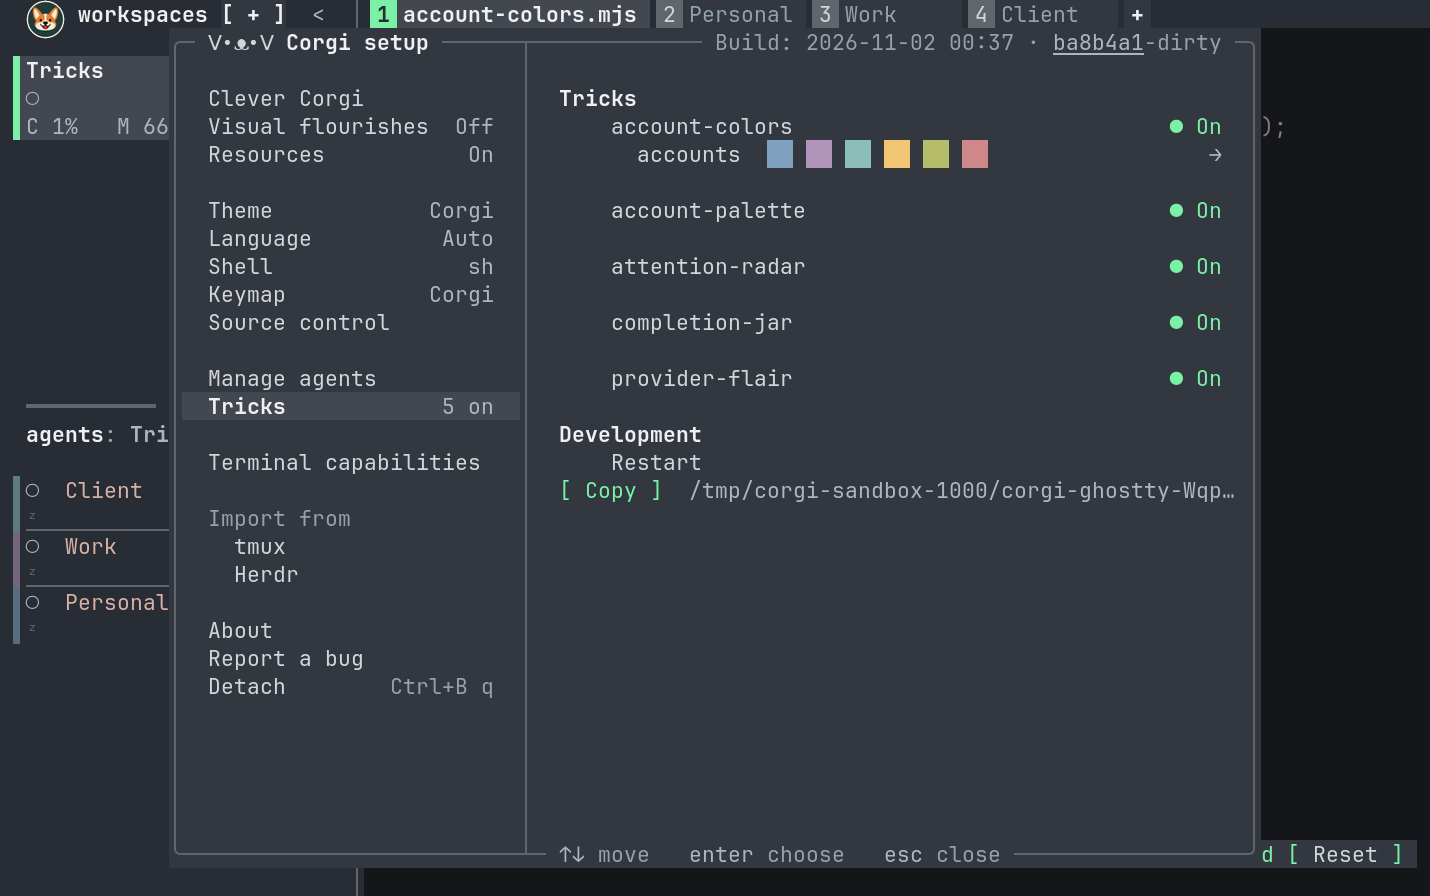
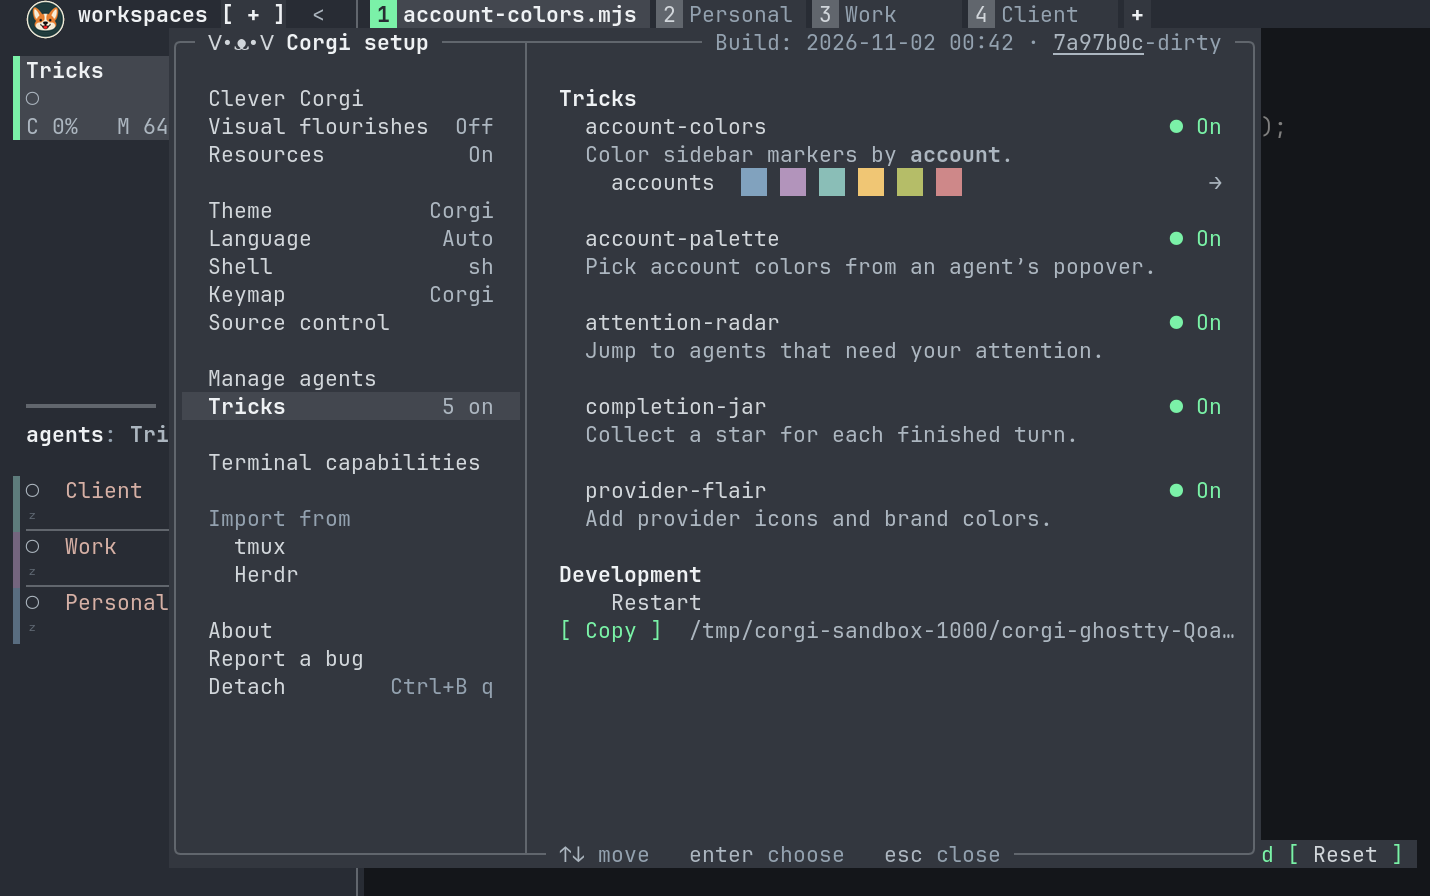
tricks: polish settings blocks
Each Trick uses two-cell nesting and can show a short Markdown description
under its name, including while disabled. Right Arrow and l open the selected
palette or picker instead of resetting focus to the first option.

Manifest version 1 accepts the optional description. Older status replies
default to no description. Unedited bundled manifests gain the account-color
description; user code and edited manifests are preserved.

diff --git a/src/corgi_setup.ts b/src/corgi_setup.ts
@@ -14,6 +14,8 @@ import * as trickConfig from "./trick_config";
 import * as trickPalette from "./trick_palette";
 import * as trickStyle from "./trick_style";
 import * as trickPaletteUi from "./trick_palette_ui";
+import * as trickUi from "./trick_ui";
+import type { Span } from "./tricks";
 import type { Color as TrickColor } from "./tricks";
 import { Style, colors, bgRgb, mix, selection, type Token } from "./palette";
 import { Rect } from "./layout";
@@ -241,7 +243,7 @@ export type Hit =
 
 interface Option {
   preview?: palette.Rgb[];
-  inset?: number;
+  indent?: number;
   copy_path?: string;
   color?: palette.Rgb;
   label: string;
@@ -305,6 +307,7 @@ interface Choice {
   apply: Apply | null;
 }
 type Line =
+  | { tag: "description"; spans: Span[] }
   | { tag: "title" | "lead" | "note" | "warn"; text: string }
   /** One line under a setting in a group, aligned with its name. */
   | { tag: "brief"; text: string; tone?: "muted" | "warm" }
@@ -872,6 +875,15 @@ export class Menu {
     if (options[this.cursor]?.edit) this.edit(prefs);
     return true;
   }
+  /** Right opens a section or the selected nested row without changing toggles. */
+  right(s: Status, prefs: Preferences): Apply | null {
+    if (this.focus === "list") {
+      this.openOptions(s, prefs);
+      return null;
+    }
+    const option = this.options(s, prefs)[this.cursor];
+    return !this.dropdown && (option?.arrow || option?.choice) ? this.enter(s, prefs) : null;
+  }
   /** Esc closes setup, except while adjusting a slider or copying sessions. */
   escape(): boolean {
     if (this.focus !== "options") return false;
@@ -1399,6 +1411,14 @@ export class Menu {
             at(x0 + 4, y) + (line.tone === "muted" ? settingRow.normal.muted : line.tone === "warm" ? warm : panel),
           );
           return writeEllipsis(w, line.text, right - x0 - 4);
+        case "description": {
+          const room = Math.max(0, right - x0 - 2),
+            clipped = trickUi.width(line.spans) > room;
+          w.write(at(x0 + 2, y) + panel);
+          trickUi.write(w, line.spans, Math.max(0, room - Number(clipped)), undefined, "muted");
+          if (clipped && room) w.write("…");
+          return;
+        }
         case "box": {
           const edge = line.edge === "top" ? ["╭", "╮"] : ["╰", "╯"];
           w.write(at(x0, y) + (this.editing ? graph : border) + edge[0] + "─".repeat(sat(right, x0 + 2)) + edge[1]);
@@ -1616,7 +1636,7 @@ export class Menu {
     }
     if (o.preview) {
       const p = settingRow.fill(w, x, y, width, here),
-        start = x + 6 + (o.inset ?? 0);
+        start = x + (o.indent ?? 6);
       const end = right - 3,
         room = Math.max(0, end - start);
       const labelWidth = Math.min(displayWidth(o.label), Math.max(4, room - Math.min(12, o.preview.length * 3 + 1)));
@@ -1640,6 +1660,7 @@ export class Menu {
         here,
         disabled: o.disabled,
         glyph: o.glyph,
+        indent: o.indent,
       });
     if (o.choice !== undefined)
       return settingRow.drawChoice(w, x, y, width, o.label, o.choice.text, o.choice.on, here, o.color);
@@ -1927,7 +1948,7 @@ export class Menu {
             detail: "",
             mark: "none",
             preview: p.preview.map(trickStyle.rgb),
-            inset: nested ? 2 : 0,
+            indent: nested ? 6 : 4,
             apply: { kind: "trick_palette_open", ref: p.ref },
             action: i18n.t`open`,
             arrow: true,
@@ -1945,6 +1966,7 @@ export class Menu {
                   ...(i ? [blank] : []),
                   option({
                     label: directoryLabel(trick.id, null, 160),
+                    indent: 4,
                     detail: "",
                     mark: trick.enabled ? "on" : "off",
                     toggle: trick.enabled,
@@ -1952,6 +1974,7 @@ export class Menu {
                     apply: { kind: "trick", id: trick.id, enabled: !trick.enabled },
                     action: trick.enabled ? i18n.t`turn off` : i18n.t`turn on`,
                   }),
+                  ...(trick.description.length ? [{ tag: "description" as const, spans: trick.description }] : []),
                   ...(trick.error ? [{ tag: "warn" as const, text: directoryLabel(trick.error, null, 512) }] : []),
                   ...this.trick_palettes.filter(p => ownedBy(p, trick.id)).map(p => paletteRow(p, true)),
                 ]),

diff --git a/src/corgi_setup.test.ts b/src/corgi_setup.test.ts
@@ -1932,12 +1932,20 @@ test("Tricks settings show statuses, errors and durable toggle actions", () => {
     tricks: [
       {
         id: "account-colors",
+        description: [],
         path: "/tmp/tricks/account-colors/trick.toml",
         enabled: true,
         running: true,
         error: null,
       },
-      { id: "broken", path: "/tmp/tricks/broken/trick.toml", enabled: true, running: false, error: "HandlerDeadline" },
+      {
+        id: "broken",
+        description: [],
+        path: "/tmp/tricks/broken/trick.toml",
+        enabled: true,
+        running: false,
+        error: "HandlerDeadline",
+      },
     ],
   };
   const text = draw(menu, 120, 40).join("\n");
@@ -2046,6 +2054,7 @@ test("each Trick keeps its palettes and preview chips together, including shared
     watch_error: null,
     tricks: ["first", "second"].map(id => ({
       id,
+      description: [{ text: "Color by " }, { text: "account", bold: true }],
       path: "/tmp/tricks/" + id + "/trick.toml",
       enabled: false,
       running: false,
@@ -2061,15 +2070,22 @@ test("each Trick keeps its palettes and preview chips together, including shared
     const rows = draw(menu, width, 40, 0, s, prefs);
     const first = rows.findIndex(r => /first\s+○ Off/.test(r));
     const second = rows.findIndex(r => /second\s+○ Off/.test(r));
-    expect(rows[first + 1]).toContain("accounts");
-    expect(rows[first + 2]).toContain("globals.shared");
-    expect(rows[second + 1]).toContain("globals.shared");
-    expect(rows[second + 2]).toContain("projects");
+    const heading = rows.find(r => r.includes("Tricks") && !r.includes(" on"))!;
+    expect(rows[first].indexOf("first") - heading.indexOf("Tricks")).toBe(2);
+    expect(rows[first + 1]).toContain("Color by account");
+    expect(rows[first + 2]).toContain("accounts");
+    expect(rows[first + 2].indexOf("accounts") - rows[first].indexOf("first")).toBe(2);
+    expect(rows[first + 3]).toContain("globals.shared");
+    expect(rows[second + 2]).toContain("globals.shared");
+    expect(rows[second + 3]).toContain("projects");
     expect(rows.join("\n")).not.toContain("first/accounts");
   }
   menu.openOptions(s, prefs);
   menu.cursor = 1;
-  expect(menu.enter(s, prefs)).toEqual({ kind: "trick_palette_open", ref: "first/accounts" });
+  expect(menu.right(s, prefs)).toEqual({ kind: "trick_palette_open", ref: "first/accounts" });
+  expect(menu.cursor).toBe(1);
+  menu.cursor = 0;
+  expect(menu.right(s, prefs)).toBeNull();
 });
 
 test("the palette editor accepts custom CSS colors and an explicit scheme", () => {
@@ -2089,7 +2105,8 @@ test("the palette editor accepts custom CSS colors and an explicit scheme", () =
     assignments: [{ key: "work", label: "Work", color: { hue: "blue" }, override: false }],
   };
   menu.cursor = 1;
-  menu.enter(s, prefs);
+  menu.right(s, prefs);
+  expect(draw(menu, 120, 40, 0, s, prefs).join("\n")).toContain("Search palettes");
   expect(menu.click({ choice: 2 }, s, prefs)).toMatchObject({ kind: "trick_palette_colors", ref: "example/accounts" });
   menu.cursor = 2;
   menu.enter(s, prefs);

diff --git a/src/trick_host.ts b/src/trick_host.ts
@@ -6,6 +6,7 @@ import type { Status } from "./trick_config";
 import * as trickWatch from "./trick_watch";
 import * as trickDefaults from "./trick_defaults";
 import * as tricks from "./tricks";
+import * as markup from "./trick_markup";
 import * as settings from "./settings";
 import * as os from "./os";
 import * as budget from "./trick_budget";
@@ -22,6 +23,7 @@ import type { Request } from "./protocol";
 const log = getLogger("tricks");
 export interface Manifest {
   id: string;
+  description: tricks.Span[];
   command: string[] | null;
   entry: string | null;
   subscribe: tricks.Subscription;
@@ -45,6 +47,7 @@ export function manifest(source: string): Manifest {
   if (m.enabled !== undefined && typeof m.enabled !== "boolean") throw Error("InvalidEnabled");
   return {
     id: tricks.key(m.id),
+    description: markup.parse(m.description === undefined ? "" : (m.description as string)),
     command: m.entry === undefined ? (m.command as string[]) : null,
     entry: typeof m.entry === "string" ? m.entry : null,
     subscribe: tricks.subscription(m.subscribe ?? { events: [] }),
@@ -393,11 +396,12 @@ export class Host {
     const ids = new Set(this.statuses.map(s => s.id));
     for (const name of names.filter(name => !this.statuses.some(s => s.path === join(this.root, name, "trick.toml")))) {
       const path = join(this.root, name, "trick.toml");
-      const status: Status = { id: name, path, enabled: true, running: false, error: null };
+      const status: Status = { id: name, description: [], path, enabled: true, running: false, error: null };
       this.statuses.push(status);
       try {
         const m = manifest(readFileSync(path, "utf8"));
         status.id = m.id;
+        status.description = m.description;
         if (ids.has(m.id)) throw Error("DuplicateTrickId");
         ids.add(m.id);
         status.enabled = Object.hasOwn(this.config.enabled, m.id) ? this.config.enabled[m.id] : m.enabled;

diff --git a/src/tricks.test.ts b/src/tricks.test.ts
@@ -1,6 +1,7 @@
 import { expect, test } from "bun:test";
 import * as tricks from "./tricks";
 import * as trickHost from "./trick_host";
+import * as trickConfig from "./trick_config";
 import * as trickUi from "./trick_ui";
 import * as sidebar from "./sidebar";
 import * as palette from "./palette";
@@ -14,6 +15,16 @@ test("a sketch manifest only names its entry point", () => {
   expect(m.entry).toBe("main.mjs");
   expect(m.command).toBeNull();
   expect(m.subscribe.events).toEqual([]);
+  expect(m.description).toEqual([]);
+  const source = 'version = 1\nid = "account-colors"\nentry = "main.mjs"\ndescription = ';
+  const description = trickHost.manifest(source + '"Color by **account**."').description;
+  expect(description).toEqual([{ text: "Color by " }, { text: "account", bold: true }, { text: "." }]);
+  expect(trickConfig.info({ tricks: [{ id: "test", description, enabled: false }] }).tricks[0].description).toEqual(
+    description,
+  );
+  expect(trickConfig.info({ tricks: [{ id: "old" }] }).tricks[0].description).toEqual([]);
+  expect(() => trickHost.manifest(source + '"' + "x".repeat(513) + '"')).toThrow("InvalidString");
+  expect(() => trickHost.manifest(source + '"line\\nline"')).toThrow("ControlCharacter");
   expect(() => trickHost.manifest('version = 99\nid = "test"\nentry = "main.mjs"')).toThrow("UnsupportedTrickVersion");
   expect(() => trickHost.manifest('version = 1\nid = "../test"\nentry = "main.mjs"')).toThrow("InvalidKey");
   expect(() => trickHost.manifest('version = 1\nid = "test"\nentry = "main.mjs"\ncommand = ["node"]')).toThrow(

diff --git a/src/trick_defaults.ts b/src/trick_defaults.ts
@@ -1,18 +1,28 @@
-import { existsSync, mkdirSync, mkdtempSync, renameSync, rmSync, writeFileSync } from "node:fs";
+import { existsSync, mkdirSync, mkdtempSync, readFileSync, renameSync, rmSync, writeFileSync } from "node:fs";
 import { join } from "node:path";
 import accountColors from "../assets/account-colors.mjs.txt" with { type: "text" };
+import * as os from "./os";
+
+const previous_manifest = 'version = 1\nid = "account-colors"\nentry = "main.mjs"\n';
+const manifest =
+  'version = 1\nid = "account-colors"\ndescription = "Color sidebar markers by **account**."\nentry = "main.mjs"\n';
 
 /** Seed editable code once; preserve custom files and deliberate removals. */
 export function install(root: string) {
   const marker = join(root, ".defaults"),
-    target = join(root, "account-colors");
-  if (existsSync(marker)) return;
+    target = join(root, "account-colors"),
+    installed = join(target, "trick.toml");
+  if (existsSync(marker)) {
+    if (existsSync(installed) && readFileSync(installed, "utf8") === previous_manifest)
+      os.atomicWrite(installed, manifest, 0o600, false);
+    return;
+  }
   mkdirSync(root, { recursive: true, mode: 0o700 });
   if (!existsSync(target)) {
     const staging = mkdtempSync(join(root, ".defaults-"));
     try {
       writeFileSync(join(staging, "main.mjs"), accountColors, { mode: 0o600 });
-      writeFileSync(join(staging, "trick.toml"), 'version = 1\nid = "account-colors"\nentry = "main.mjs"\n', {
+      writeFileSync(join(staging, "trick.toml"), manifest, {
         mode: 0o600,
       });
       try {

diff --git a/src/setting_row.ts b/src/setting_row.ts
@@ -54,6 +54,7 @@ export function fill(w: Writer, x: number, y: number, width: number, here: boole
  * options keep their ● and ○. */
 export interface Toggle {
   label: string;
+  indent?: number;
   on: boolean;
   /** Whether the cursor is on the row. */
   here: boolean;
@@ -76,6 +77,7 @@ export function drawToggle(w: Writer, x: number, y: number, width: number, t: To
     t.on ? "● " + i18n.t`On` : "○ " + i18n.t`Off`,
     t.on && !disabled ? p.accent : p.quiet,
     disabled,
+    t.indent,
   );
 }
 /** A dropdown setting's row: its name, and the choice in use with ▾ at the
@@ -111,9 +113,10 @@ function drawValue(
   value: string,
   style: string,
   disabled = false,
+  indent = 6,
 ) {
   const value_x = x + width - 2 - displayWidth(value);
-  w.write(at(x + 6, y) + (disabled ? p.quiet : p.label));
-  writeEllipsis(w, label, sat(value_x - 1, x + 6));
+  w.write(at(x + indent, y) + (disabled ? p.quiet : p.label));
+  writeEllipsis(w, label, sat(value_x - 1, x + indent));
   w.write(at(value_x, y) + style + value);
 }

diff --git a/src/trick_defaults.test.ts b/src/trick_defaults.test.ts
@@ -13,6 +13,15 @@ test("default account colors are ordinary editable code, installed once without 
     expect(readFileSync(file, "utf8")).toBe(
       readFileSync(new URL("../examples/tricks/account-colors/main.mjs", import.meta.url), "utf8"),
     );
+    const manifest = join(root, "account-colors/trick.toml"),
+      expected = readFileSync(new URL("../examples/tricks/account-colors/trick.toml", import.meta.url), "utf8");
+    expect(readFileSync(manifest, "utf8")).toBe(expected);
+    writeFileSync(manifest, 'version = 1\nid = "account-colors"\nentry = "main.mjs"\n');
+    defaults.install(root);
+    expect(readFileSync(manifest, "utf8")).toBe(expected);
+    writeFileSync(manifest, expected.replace("Color sidebar markers", "My own markers"));
+    defaults.install(root);
+    expect(readFileSync(manifest, "utf8")).toContain("My own markers");
     writeFileSync(file, "// my own colors\n");
     rmSync(marker);
     defaults.install(root);

diff --git a/src/controller.ts b/src/controller.ts
@@ -4577,7 +4577,7 @@ export class Controller {
           setup.move(false, s, this.prefs);
           break;
         case 108:
-          setup.openOptions(s, this.prefs);
+          await this.applySetup(setup.right(s, this.prefs));
           break;
         case 104:
           setup.back();
@@ -5474,7 +5474,7 @@ export class Controller {
           // The worktree folder field took it.
         } else if (parsed_key === "up" || parsed_key === "shift_tab") setup.move(false, s, this.prefs);
         else if (parsed_key === "down") setup.move(true, s, this.prefs);
-        else if (parsed_key === "right") setup.openOptions(s, this.prefs);
+        else if (parsed_key === "right") await this.applySetup(setup.right(s, this.prefs));
         else if (parsed_key === "left") setup.back();
         this.dirty = true;
       } else if (this.agent_launcher) {

diff --git a/tests/tricks.test.ts b/tests/tricks.test.ts
@@ -340,7 +340,11 @@ export async function register(on, corgi) {
       await this.client!.request({ op: "size", cols: 120, rows: 40 });
       await this.client!.action("setup");
       await this.click_text(screen_text(await this.shown("Manage agents")), "Tricks");
-      await this.click_text(screen_text(await this.shown(ref)), ref);
+      await this.client!.input("\x1b[C");
+      const rows = screen_text(await this.shown(ref)),
+        y = rows.findIndex(row => row.includes(ref)),
+        x = rows[y].indexOf(ref);
+      await this.client!.input(`\x1b[<35;${x + 1};${y + 1}M\x1b[C`);
       await this.click_text(screen_text(await this.shown(key)), key);
       await this.click_text(screen_text(await this.shown("Color name or #hex")), "Red");
       await other.until(() => hasColor(other, { hue: "red" }));

diff --git a/src/trick_config.ts b/src/trick_config.ts
@@ -1,9 +1,12 @@
+import * as tricks from "./tricks";
+
 export interface Config {
   autoreload: boolean;
   enabled: Record<string, boolean>;
 }
 export interface Status {
   id: string;
+  description: tricks.Span[];
   path: string;
   enabled: boolean;
   running: boolean;
@@ -37,6 +40,7 @@ export function info(value: unknown): Info {
       const row = object(value);
       return {
         id: typeof row.id === "string" ? row.id : "",
+        description: tricks.spans(row.description ?? []),
         path: typeof row.path === "string" ? row.path : "",
         enabled: row.enabled !== false,
         running: row.running === true,

diff --git a/src/tricks.ts b/src/tricks.ts
@@ -207,7 +207,7 @@ export function color(value: unknown, depth = 0): Color | undefined {
   }
   throw Error("InvalidColor");
 }
-function spans(value: unknown): Span[] {
+export function spans(value: unknown): Span[] {
   if (!Array.isArray(value) || value.length > 16) throw Error("InvalidSpans");
   return value.map(v => {
     const s = object(v);

diff --git a/assets/corgi-tricks-skill.md b/assets/corgi-tricks-skill.md
@@ -21,6 +21,7 @@ Make one folder with `trick.toml` and `main.mjs` (or `main.ts`):
 ```toml
 version = 1
 id = "account-colors"
+description = "Color sidebar markers by **account**."
 entry = "main.mjs"
 ```
 
@@ -34,7 +35,10 @@ export function register(on, corgi) {
 ```
 
 TOML identifies and launches the program; behavior and subscriptions belong in
-code. Source, JSON and TOML saves reload only the affected trick by default.
+code. An optional `description` is shown below the Trick’s name in settings,
+including when it is off. Use up to 512 UTF-8 bytes of inline Markdown (bold,
+italic, code, and bundled icons); it is clipped to one line. Source, JSON and
+TOML saves reload only the affected trick by default.
 Relative imports within the folder are watched too. Dependency and build folders,
 hidden directories and nested directory symlinks are excluded; watches are bounded.
 Use `corgi tricks reload` after changing external imports.
